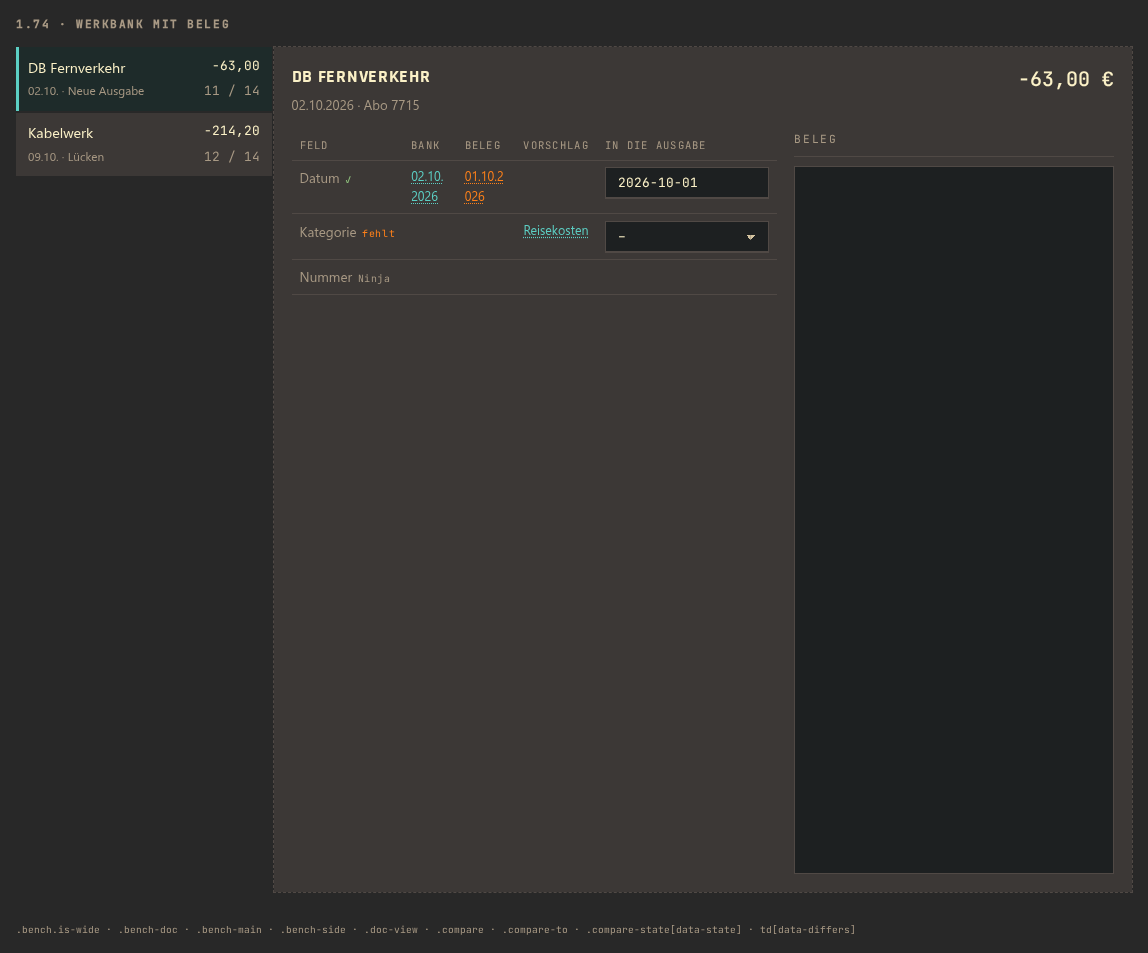
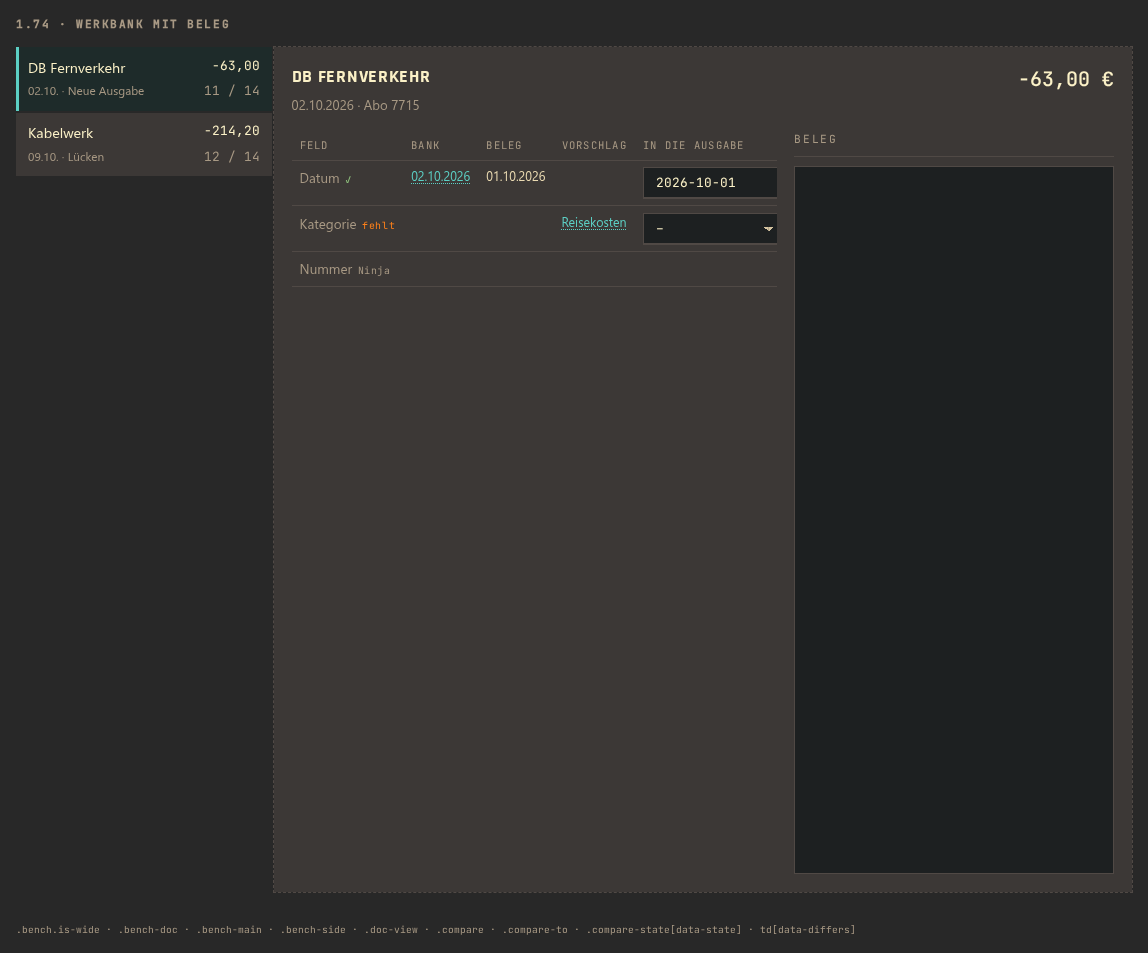
Keep dates whole in the comparison
The suggestion line's own wrapping broke them inside the number, at
usual desktop widths, right where they are checked against the paper.

diff --git a/tools/specimen.html b/tools/specimen.html
@@ -241,7 +241,7 @@ section>h2{font-family:var(--font-mono);font-size:.7rem;letter-spacing:.14em;tex
 <div class="bench is-wide"><nav class="bench-list"><a class="bench-entry" aria-current="true" href="#bench-doc"><b>DB Fernverkehr</b><span>−63,00</span><small>02.10. · Neue Ausgabe</small><small>11 / 14</small></a><a class="bench-entry" href="#bench-doc"><b>Kabelwerk</b><span>−214,20</span><small>09.10. · Lücken</small><small>12 / 14</small></a></nav>
 <section class="bench-desk"><header class="bench-top"><div><h3>DB Fernverkehr</h3><p>02.10.2026 · Abo 7715</p></div><b>−63,00 €</b></header>
 <div class="bench-doc"><div class="bench-main"><table class="compare"><thead><tr><th>Feld</th><th>Bank</th><th>Beleg</th><th>Vorschlag</th><th>In die Ausgabe</th></tr></thead><tbody>
-<tr><td>Datum<span class="compare-state" data-state="ok">✓</span></td><td><p class="field-suggest" data-suggest-for="bd-day"><button type="button" class="field-suggest-pick" data-value="2026-10-02">02.10.2026</button></p></td><td data-differs><p class="field-suggest" data-suggest-for="bd-day"><button type="button" class="field-suggest-pick" data-value="2026-10-01">01.10.2026</button></p></td><td></td><td class="compare-to"><input class="input" id="bd-day" value="2026-10-01"></td></tr>
+<tr><td>Datum<span class="compare-state" data-state="ok">✓</span></td><td><p class="field-suggest" data-suggest-for="bd-day"><button type="button" class="field-suggest-pick" data-value="2026-10-02">02.10.2026</button></p></td><td data-differs><p class="field-suggest" data-suggest-for="bd-day"><button type="button" class="field-suggest-pick" data-value="2026-10-01" aria-pressed="true">01.10.2026</button></p></td><td></td><td class="compare-to"><input class="input" id="bd-day" value="2026-10-01"></td></tr>
 <tr><td>Kategorie<span class="compare-state" data-state="missing">fehlt</span></td><td></td><td></td><td><p class="field-suggest" data-suggest-for="bd-cat"><button type="button" class="field-suggest-pick" data-value="c1">Reisekosten</button></p></td><td class="compare-to"><select class="select" id="bd-cat"><option value="">–</option><option value="c1">Reisekosten</option></select></td></tr>
 <tr><td>Nummer<span class="compare-state" data-state="auto">Ninja</span></td><td></td><td></td><td></td><td class="compare-to"></td></tr>
 </tbody></table></div><aside class="bench-side"><div class="h-label">Beleg</div><div class="doc-view"></div></aside></div></section></div>

diff --git a/css/components.css b/css/components.css
@@ -1190,6 +1190,7 @@ button.list-row{width:100%;border:0;border-bottom:1px solid var(--bg1);backgroun
 .compare td:first-child{color:var(--fg3);overflow-wrap:normal}
 .compare td.compare-to{min-width:10rem;color:var(--fg0)}
 .compare td.compare-to .input,.compare td.compare-to .select{width:100%;min-height:var(--h-s);padding-block:0;font-size:.8rem}
+.compare .field-suggest{overflow-wrap:break-word}
 .compare td[data-differs] .field-suggest-pick:not([aria-pressed="true"],:hover){color:var(--warn)}
 .compare-state{margin-left:.35rem;font-family:var(--font-mono);font-size:.62rem;letter-spacing:.06em;white-space:nowrap}
 .compare-state[data-state="ok"]{color:var(--aqua)}

diff --git a/docs/v1/shrippen.css b/docs/v1/shrippen.css
@@ -1535,6 +1535,7 @@ button.list-row{width:100%;border:0;border-bottom:1px solid var(--bg1);backgroun
 .compare td:first-child{color:var(--fg3);overflow-wrap:normal}
 .compare td.compare-to{min-width:10rem;color:var(--fg0)}
 .compare td.compare-to .input,.compare td.compare-to .select{width:100%;min-height:var(--h-s);padding-block:0;font-size:.8rem}
+.compare .field-suggest{overflow-wrap:break-word}
 .compare td[data-differs] .field-suggest-pick:not([aria-pressed="true"],:hover){color:var(--warn)}
 .compare-state{margin-left:.35rem;font-family:var(--font-mono);font-size:.62rem;letter-spacing:.06em;white-space:nowrap}
 .compare-state[data-state="ok"]{color:var(--aqua)}

diff --git a/README.md b/README.md
@@ -798,7 +798,7 @@ A workbench that keeps the receipt in view (Andon: the VAT bench, where each ope
 | Desk with a document | `.bench-doc` > `.bench-main` + `.bench-side` | Fields left, document right; the side stays in view while the fields scroll. Stacks in a desk under 44rem; above that a table too wide for its column scrolls sideways rather than run under the document |
 | Document | `.doc-view` | An `iframe` or `img` filling the side; also an empty placeholder |
 | Comparison | `table.compare`, `td.compare-to` | One row per field: its sources, then the value it will hold. A value in a source cell is a `.field-suggest-pick` in a `.field-suggest[data-suggest-for]`, so a click takes it |
-| State of a row | `.compare-state[data-state="ok\|missing\|auto"]`, `td[data-differs]` | Set, missing, or set by the service; a source that differs from the others is marked |
+| State of a row | `.compare-state[data-state="ok\|missing\|auto"]`, `td[data-differs]` | Set, missing, or set by the service; a source that differs from the others is marked; the value already in the field takes `aria-pressed="true"` from the app, Kante only marks clicks |
 
 ### Added in Kante 1.73
 
